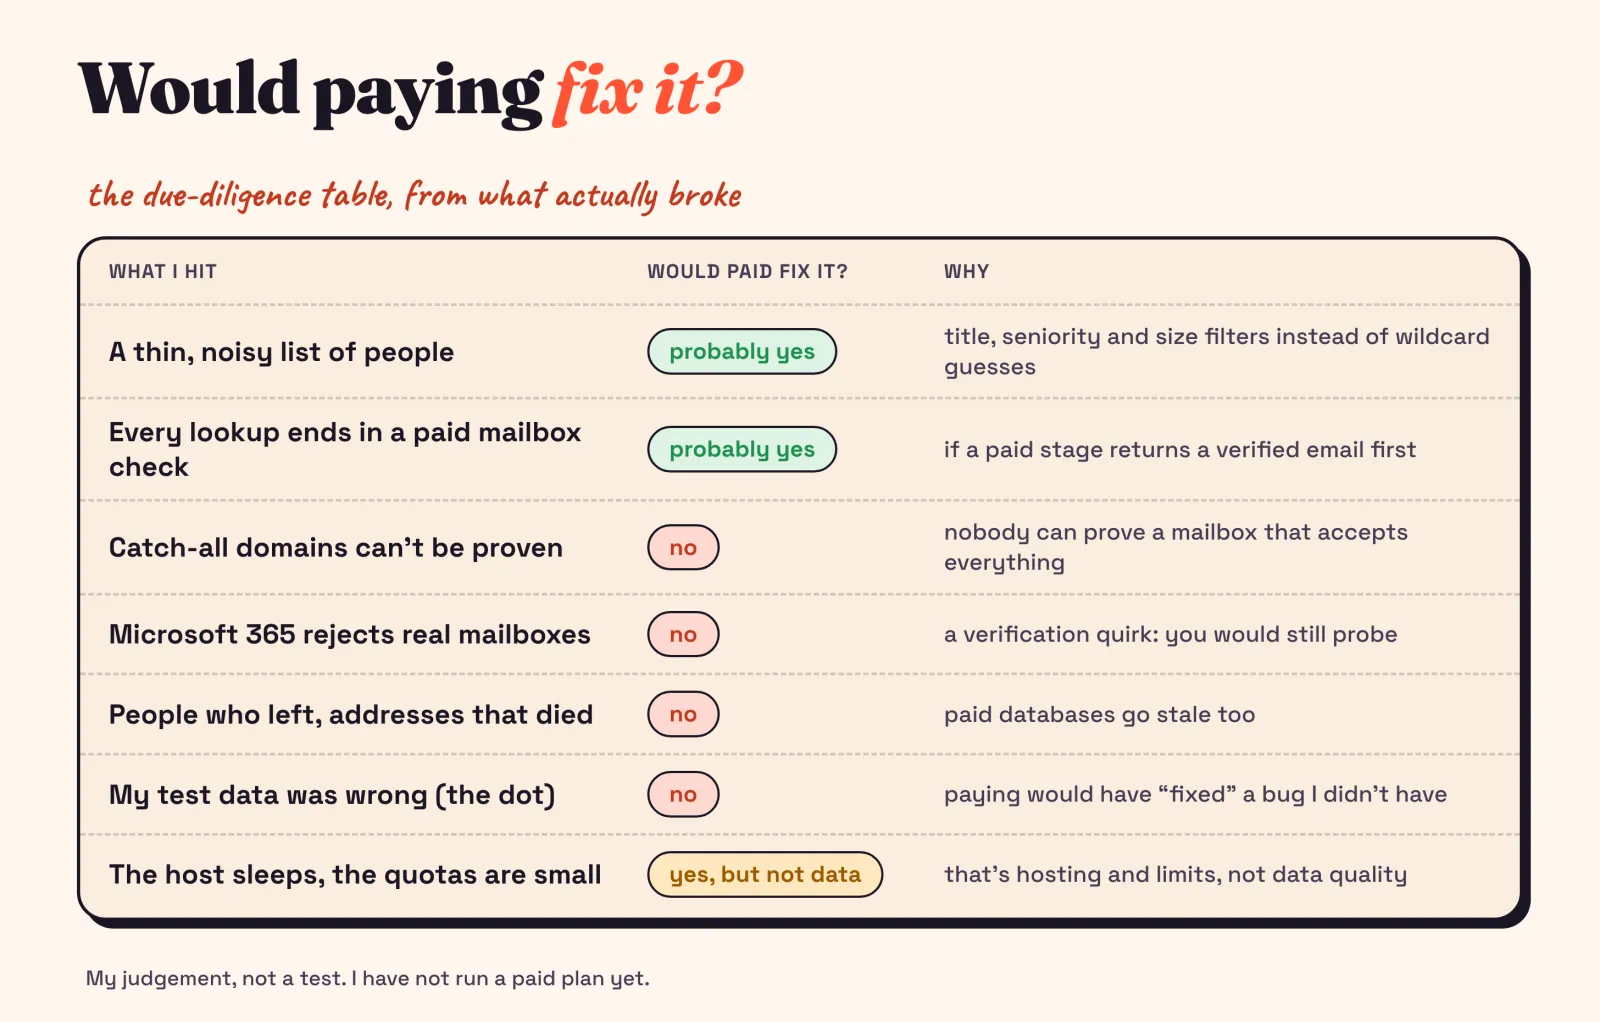
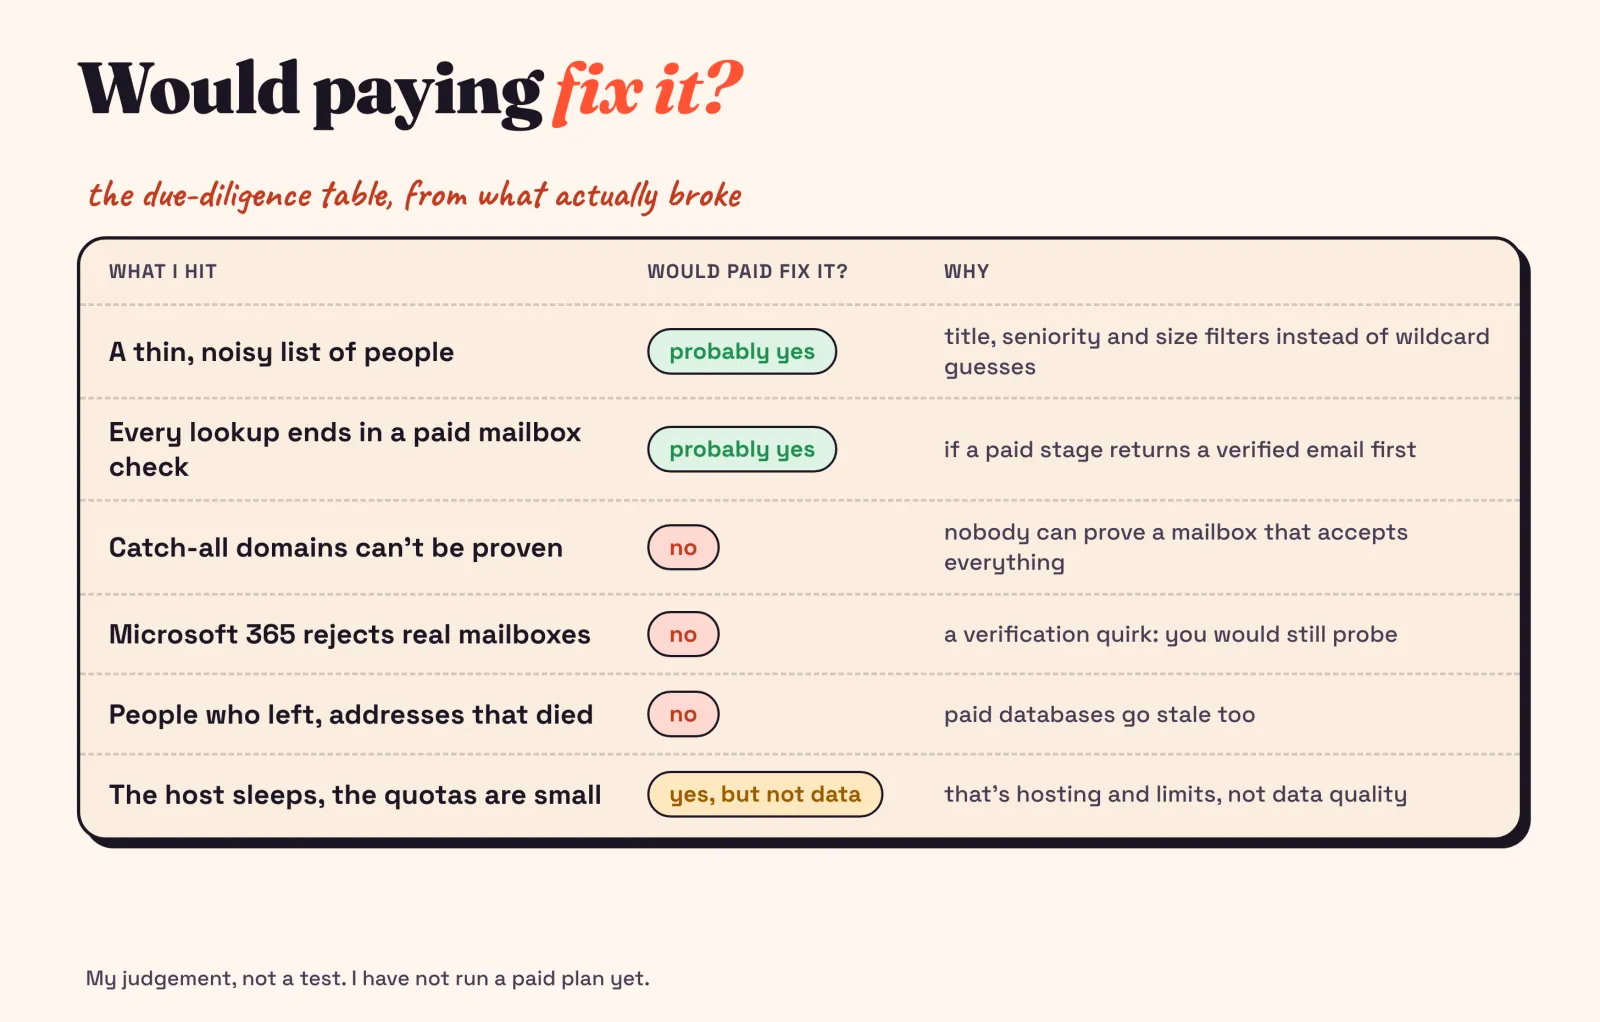
Blog: remove dropped-dot story from build-it-free-first

Changed region(s): [[0.0312, 0.728, 0.9688, 0.91], [0.5938, 0.7583, 0.9062, 0.7886]]

diff --git a/blog/build-it-free-first.html b/blog/build-it-free-first.html
@@ -19,7 +19,7 @@
   <meta property="og:image:width" content="1200">
   <meta property="og:image:height" content="630">
   <meta property="article:published_time" content="2026-11-08T00:00:00+05:30">
-  <meta property="article:modified_time" content="2026-11-08T00:00:00+05:30">
+  <meta property="article:modified_time" content="2026-11-10T00:00:00+05:30">
   <meta property="article:author" content="https://www.linkedin.com/in/rudra-trivedi-t04/">
   <meta property="article:tag" content="GTM">
   <meta property="article:tag" content="Lead enrichment">
@@ -56,7 +56,7 @@
         "https://f1rstword.com/assets/blog/build-it-free-first/01-hero.webp"
       ],
       "datePublished": "2026-11-08T00:00:00+05:30",
-      "dateModified": "2026-11-08T00:00:00+05:30",
+      "dateModified": "2026-11-10T00:00:00+05:30",
       "author": {
         "@type": "Person",
         "@id": "https://f1rstword.com/#person",
@@ -83,7 +83,7 @@
         "name": "Rudra Trivedi: Blog"
       },
       "keywords": "GTM, Lead enrichment, Outbound, Apollo",
-      "wordCount": 1412,
+      "wordCount": 1312,
       "timeRequired": "PT6M",
       "inLanguage": "en",
       "about": {
@@ -272,7 +272,7 @@
         <a href="/blog" class="back-btn">← All posts</a>
         <ul class="post-tags" aria-label="Topics"><li>GTM</li><li>Lead enrichment</li><li>Outbound</li><li>Apollo</li></ul>
       </div>
-      <p class="cs-updated">Published <time datetime="2026-11-08">8 November 2026</time></p>
+      <p class="cs-updated">Published <time datetime="2026-11-08">8 November 2026</time> · Updated <time datetime="2026-11-10">10 November 2026</time></p>
       <nav class="post-toc" aria-labelledby="toc-h">
         <h2 id="toc-h">In this post</h2>
         <ol>
@@ -280,7 +280,7 @@
           <li><a href="#the-one-feature-that-makes-a-free-build-worth-doing">The one feature that makes a free build worth doing</a></li>
           <li><a href="#what-free-got-me-said-out-loud">What free got me, said out loud</a></li>
           <li><a href="#where-free-hurt">Where free hurt</a></li>
-          <li><a href="#four-problems-that-looked-like-reasons-to-pay-only-one-reall">Four problems that looked like reasons to pay. Only one really was.</a></li>
+          <li><a href="#three-problems-that-looked-like-reasons-to-pay-only-one-real">Three problems that looked like reasons to pay. Only one really was.</a></li>
           <li><a href="#where-paid-would-slot-in">Where paid would slot in</a></li>
           <li><a href="#my-prediction-and-the-rule-i-ll-judge-it-by">My prediction, and the rule I&#x27;ll judge it by</a></li>
           <li><a href="#the-method-if-you-want-to-copy-it">The method, if you want to copy it</a></li>
@@ -337,35 +337,28 @@
   <img src="/assets/blog/build-it-free-first/09-free-vs-paid.webp" alt="Free versus paid: what the free stack gives you and where it hurts, and what a paid plan would likely change (expected, not tested)." width="1600" height="968" loading="lazy" decoding="async">
   <figcaption>Free versus paid: what the free stack gives you and where it hurts, and what a paid plan would likely change (expected, not tested).</figcaption>
 </figure>
-<h2 id="four-problems-that-looked-like-reasons-to-pay-only-one-reall">Four problems that looked like reasons to pay. Only one really was.</h2>
-<p>This is the part I most want you to take away. The free build produced four problems that <em>looked</em> like reasons to upgrade. Only one of them was.</p>
-<h3 id="1-my-test-data-was-wrong-not-the-tool">1. My test data was wrong, not the tool.</h3>
-<p>I was grading my tool against addresses I <em>knew</em> worked. It marked two as &quot;valid&quot;, and by my list both were wrong. The tool said <code>jane.doe@acme.com</code>; my list said <code>janedoe@acme.com</code>. I almost went hunting for a better data source. Instead I opened the original thread: the address had a dot. The search view I&#x27;d exported my list from strips dots out of addresses. The tool was right.</p>
-<p>Had I trusted that first score, I&#x27;d have paid to fix a bug I didn&#x27;t have.</p>
-<figure>
-  <img src="/assets/blog/build-it-free-first/05-dots.webp" alt="Two views of the same inbox: the search listing strips the dot, the full message keeps it." width="1600" height="792" loading="lazy" decoding="async">
-  <figcaption>Two views of the same inbox: the search listing strips the dot, the full message keeps it.</figcaption>
-</figure>
-<h3 id="2-microsoft-365-says-no-to-mailboxes-that-exist">2. Microsoft 365 says &quot;no&quot; to mailboxes that exist.</h3>
+<h2 id="three-problems-that-looked-like-reasons-to-pay-only-one-real">Three problems that looked like reasons to pay. Only one really was.</h2>
+<p>This is the part I most want you to take away. The free build produced three problems that <em>looked</em> like reasons to upgrade. Only one of them was.</p>
+<h3 id="1-microsoft-365-says-no-to-mailboxes-that-exist">1. Microsoft 365 says &quot;no&quot; to mailboxes that exist.</h3>
 <p>A real person who had emailed me from a Microsoft-hosted company was marked as not existing. Paid data wouldn&#x27;t fix that; it&#x27;s a verification quirk. What it did cost me was credits: one lookup burned <strong>7 credits</strong> for a &quot;risky&quot; result because every guess got probed. Treating a &quot;no&quot; there as a penalty, not proof, and capping Microsoft-hosted domains at three probes brought the worst case down to about four.</p>
 <figure>
   <img src="/assets/blog/build-it-free-first/06-cost.webp" alt="Credits per person: about 2 on a clean Google domain, 7 on Microsoft 365 before the cap, about 4 after." width="1600" height="704" loading="lazy" decoding="async">
   <figcaption>Credits per person: about 2 on a clean Google domain, 7 on Microsoft 365 before the cap, about 4 after.</figcaption>
 </figure>
-<h3 id="3-catch-all-domains-can-t-be-proven-by-anyone">3. Catch-all domains can&#x27;t be proven by anyone.</h3>
+<h3 id="2-catch-all-domains-can-t-be-proven-by-anyone">2. Catch-all domains can&#x27;t be proven by anyone.</h3>
 <p>Some domains accept mail for any address, real or not. On those, no mailbox check proves anything, and no paid plan changes that. So &quot;valid&quot; has to be earned: a catch-all can&#x27;t score above 0.55, and a guess nothing independent confirmed can&#x27;t go above 0.84. I&#x27;d rather get &quot;risky, and here&#x27;s why&quot; than a green tick I can&#x27;t trust.</p>
 <figure>
   <img src="/assets/blog/build-it-free-first/04-verdict-ladder.webp" alt="The confidence ladder: caps at 0.55 and 0.84, and &quot;valid&quot; only with proof." width="1600" height="770" loading="lazy" decoding="async">
   <figcaption>The confidence ladder: caps at 0.55 and 0.84, and &quot;valid&quot; only with proof.</figcaption>
 </figure>
-<h3 id="4-the-people-data-was-noisy-and-paid-probably-would-fix-that">4. The people data was noisy, and paid probably would fix that.</h3>
+<h3 id="3-the-people-data-was-noisy-and-paid-probably-would-fix-that">3. The people data was noisy, and paid probably would fix that.</h3>
 <p>My team-page scraper once &quot;found&quot; seven staff on a homepage. Every one was a customer testimonial (&quot;Training Manager at Danone&quot;). A search for a company with a common name returned people from three unrelated companies. I fixed both with rules, but this is exactly the kind of problem better-filtered paid data should shrink.</p>
 <p>Put them side by side and you get a table I wish I&#x27;d had before opening my wallet:</p>
 <figure>
   <img src="/assets/blog/build-it-free-first/11-would-paid-fix-it.webp" alt="Would paying fix it? A table of what I hit and whether a paid plan would likely fix it." width="1600" height="1022" loading="lazy" decoding="async">
   <figcaption>Would paying fix it? A table of what I hit and whether a paid plan would likely fix it.</figcaption>
 </figure>
-<p>Of the seven things that actually broke, two a paid plan would plausibly help, one is just hosting and limits, and four it wouldn&#x27;t touch.</p>
+<p>Of the six things that actually broke, two a paid plan would plausibly help, one is just hosting and limits, and three it wouldn&#x27;t touch.</p>
 <h2 id="where-paid-would-slot-in">Where paid would slot in</h2>
 <p>A paid source isn&#x27;t a rewrite. It&#x27;s <strong>one more tile</strong> in the waterfall. Apollo&#x27;s people search takes title, seniority, company-size and location filters, which could replace three noisy free sources for finding people. And an Apollo or Hunter email, which typically arrives with a verification signal, would sit <em>before</em> my mailbox check so that some lookups end earlier and cheaper. The Apollo email-lookup adapter already exists in the code (it&#x27;s blocked by the plan, not by the design), and a people-search source would be a small addition.</p>
 <figure>
@@ -389,7 +382,7 @@
 <ol>
   <li><strong>Build the cheapest working version first</strong>, even if it&#x27;s ugly.</li>
   <li><strong>Log credits and the settling stage for every lookup.</strong> This is the whole trick.</li>
-  <li><strong>Keep a small known-good set, and write down where each answer came from.</strong> Mine came from a view that quietly dropped a character.</li>
+  <li><strong>Keep a small known-good set, and write down where each answer came from.</strong> Then you can trust your own scorecard.</li>
   <li><strong>Let the tool say &quot;I don&#x27;t know.&quot;</strong> &quot;Risky, because this is a catch-all&quot; is worth more than a hit rate that looks great.</li>
   <li><strong>Price each paid stage against the stage it would replace.</strong> Write your buy-or-skip rule before you test.</li>
 </ol>

diff --git a/blog.html b/blog.html
@@ -64,7 +64,7 @@
       "isPartOf": {
         "@id": "https://f1rstword.com/#website"
       },
-      "dateModified": "2026-11-08T00:00:00+05:30",
+      "dateModified": "2026-11-10T00:00:00+05:30",
       "blogPost": [
         {
           "@type": "BlogPosting",
@@ -72,7 +72,7 @@
           "url": "https://f1rstword.com/blog/build-it-free-first",
           "headline": "Build it free first: the cheapest way to find out what Apollo is worth",
           "datePublished": "2026-11-08T00:00:00+05:30",
-          "dateModified": "2026-11-08T00:00:00+05:30",
+          "dateModified": "2026-11-10T00:00:00+05:30",
           "author": {
             "@id": "https://f1rstword.com/#person"
           },

diff --git a/content/blog/build-it-free-first/article.md b/content/blog/build-it-free-first/article.md
@@ -4,7 +4,7 @@ title: "Build it free first: the cheapest way to find out what Apollo is worth"
 seo_title: "Build It Free First: Is Apollo Worth Paying For? | Rudra Trivedi"
 description: "I built a cloud lead-enrichment tool on free tiers and made it log what every step cost. Here are the numbers, where free hurt, and the rule I'll use to decide whether a paid data plan like Apollo is worth it."
 date: 2026-11-08
-updated: 2026-11-08
+updated: 2026-11-10
 tags: GTM, Lead enrichment, Outbound, Apollo
 project: Air Waterfall
 project_url: /case-study-air-waterfall
@@ -68,35 +68,28 @@ Fourteen addresses is a smoke test, not proof, and "valid" is still uncalibrated
 
 ![Free versus paid: what the free stack gives you and where it hurts, and what a paid plan would likely change (expected, not tested).](images/09-free-vs-paid.png)
 
-## Four problems that looked like reasons to pay. Only one really was.
+## Three problems that looked like reasons to pay. Only one really was.
 
-This is the part I most want you to take away. The free build produced four problems that *looked* like reasons to upgrade. Only one of them was.
+This is the part I most want you to take away. The free build produced three problems that *looked* like reasons to upgrade. Only one of them was.
 
-**1. My test data was wrong, not the tool.**
-I was grading my tool against addresses I *knew* worked. It marked two as "valid", and by my list both were wrong. The tool said `jane.doe@acme.com`; my list said `janedoe@acme.com`. I almost went hunting for a better data source. Instead I opened the original thread: the address had a dot. The search view I'd exported my list from strips dots out of addresses. The tool was right.
-
-Had I trusted that first score, I'd have paid to fix a bug I didn't have.
-
-![Two views of the same inbox: the search listing strips the dot, the full message keeps it.](images/05-dots.png)
-
-**2. Microsoft 365 says "no" to mailboxes that exist.**
+**1. Microsoft 365 says "no" to mailboxes that exist.**
 A real person who had emailed me from a Microsoft-hosted company was marked as not existing. Paid data wouldn't fix that; it's a verification quirk. What it did cost me was credits: one lookup burned **7 credits** for a "risky" result because every guess got probed. Treating a "no" there as a penalty, not proof, and capping Microsoft-hosted domains at three probes brought the worst case down to about four.
 
 ![Credits per person: about 2 on a clean Google domain, 7 on Microsoft 365 before the cap, about 4 after.](images/06-cost.png)
 
-**3. Catch-all domains can't be proven by anyone.**
+**2. Catch-all domains can't be proven by anyone.**
 Some domains accept mail for any address, real or not. On those, no mailbox check proves anything, and no paid plan changes that. So "valid" has to be earned: a catch-all can't score above 0.55, and a guess nothing independent confirmed can't go above 0.84. I'd rather get "risky, and here's why" than a green tick I can't trust.
 
 ![The confidence ladder: caps at 0.55 and 0.84, and "valid" only with proof.](images/04-verdict-ladder.png)
 
-**4. The people data was noisy, and paid probably would fix that.**
+**3. The people data was noisy, and paid probably would fix that.**
 My team-page scraper once "found" seven staff on a homepage. Every one was a customer testimonial ("Training Manager at Danone"). A search for a company with a common name returned people from three unrelated companies. I fixed both with rules, but this is exactly the kind of problem better-filtered paid data should shrink.
 
 Put them side by side and you get a table I wish I'd had before opening my wallet:
 
 ![Would paying fix it? A table of what I hit and whether a paid plan would likely fix it.](images/11-would-paid-fix-it.png)
 
-Of the seven things that actually broke, two a paid plan would plausibly help, one is just hosting and limits, and four it wouldn't touch.
+Of the six things that actually broke, two a paid plan would plausibly help, one is just hosting and limits, and three it wouldn't touch.
 
 ## Where paid would slot in
 
@@ -122,7 +115,7 @@ Next, I want to run this exact test on one month of a paid plan and publish the 
 
 1. **Build the cheapest working version first**, even if it's ugly.
 2. **Log credits and the settling stage for every lookup.** This is the whole trick.
-3. **Keep a small known-good set, and write down where each answer came from.** Mine came from a view that quietly dropped a character.
+3. **Keep a small known-good set, and write down where each answer came from.** Then you can trust your own scorecard.
 4. **Let the tool say "I don't know."** "Risky, because this is a catch-all" is worth more than a hit rate that looks great.
 5. **Price each paid stage against the stage it would replace.** Write your buy-or-skip rule before you test.
 
